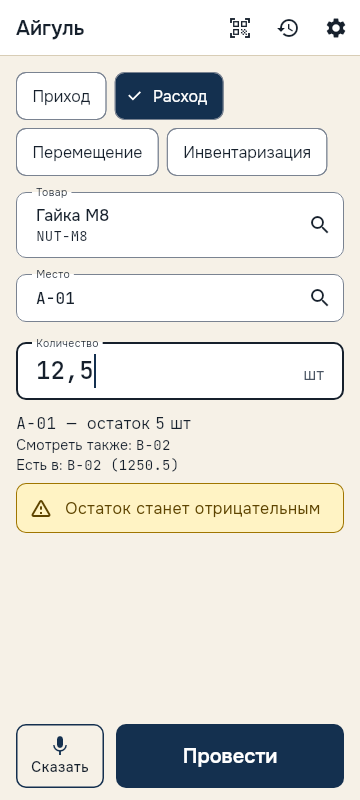
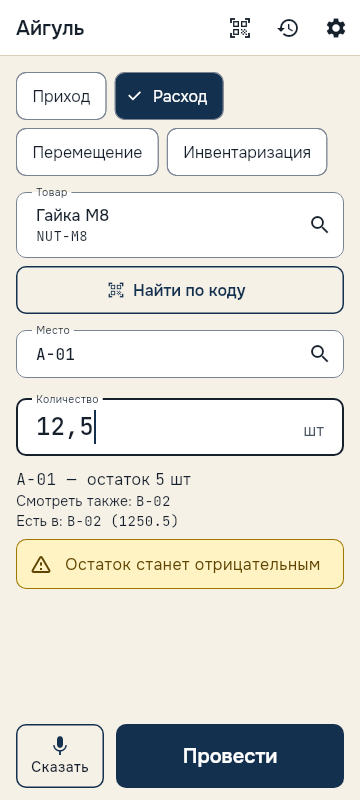
Q-04: app scan to find (camera permission denied, nothing found), ru/kk
T-0071 implement attempt 2: Addressed the gui_review finding. The operation form now has a worded "Найти по коду / Код бойынша табу" button (OutlinedButton.icon with the qr_code_scanner icon, at least 48 px high, full width, label can wrap) directly under the item field, shown when the catalog is loaded. The app-bar icon stays as an extra shortcut. I also added the non-blocking progress indicator: the Find button shows a small spinner while a lookup runs. A new widget test checks the button's label, height and that it open

Changed region(s): [[0.0306, 0.3125, 0.9778, 0.75], [0.8556, 0.5312, 0.8861, 0.5625], [0.4889, 0.5, 0.5194, 0.5312]]

diff --git a/mobile/test/operation_screen_test.dart b/mobile/test/operation_screen_test.dart
@@ -142,6 +142,18 @@ void main() {
     expect(find.byKey(const Key('code_input')), findsNothing);
   });
 
+  testWidgets('the form has a worded find-by-code button that opens the find screen', (tester) async {
+    await pumpForm(tester, FakeServer());
+    final button = find.byKey(const Key('find_by_code_button'));
+    expect(button, findsOneWidget);
+    expect(find.descendant(of: button, matching: find.text('Найти по коду')), findsOneWidget);
+    expect(tester.getSize(button).height, greaterThanOrEqualTo(48));
+    await tester.ensureVisible(button);
+    await tester.tap(button);
+    await tester.pumpAndSettle();
+    expect(find.byKey(const Key('code_input')), findsOneWidget);
+  });
+
   testWidgets('scanning a location code fills the location, not the item', (tester) async {
     await pumpForm(tester, FakeServer(), scanner: _Scan(const ScanText('LOC-A01')));
     await findByCode(tester);

diff --git a/mobile/lib/operation_screen.dart b/mobile/lib/operation_screen.dart
@@ -518,6 +518,16 @@ class _OperationScreenState extends State<OperationScreen> with WidgetsBindingOb
           code: _sku?.code,
           onTap: _pickSku,
         ),
+        if (_catalog != null) ...[
+          const SizedBox(height: AppSpace.s2),
+          OutlinedButton.icon(
+            key: const Key('find_by_code_button'),
+            style: OutlinedButton.styleFrom(minimumSize: const Size.fromHeight(48)),
+            icon: const Icon(Icons.qr_code_scanner),
+            label: Text(_s('find_by_code'), textAlign: TextAlign.center),
+            onPressed: _findByCode,
+          ),
+        ],
         if (_candidates.isNotEmpty) ...[
           const SizedBox(height: AppSpace.s2),
           StatusBanner(kind: StatusKind.warning, text: _s('which_sku')),

diff --git a/mobile/lib/code_find.dart b/mobile/lib/code_find.dart
@@ -120,7 +120,14 @@ class _CodeFindScreenState extends State<CodeFindScreen> {
             child: OutlinedButton(
               key: const Key('code_find'),
               onPressed: _busy ? null : _lookup,
-              child: Text(_s('code_find')),
+              child: _busy
+                  ? const SizedBox(
+                      key: Key('code_busy'),
+                      width: 24,
+                      height: 24,
+                      child: CircularProgressIndicator(strokeWidth: 2),
+                    )
+                  : Text(_s('code_find')),
             ),
           ),
           if (_banner != null) ...[
